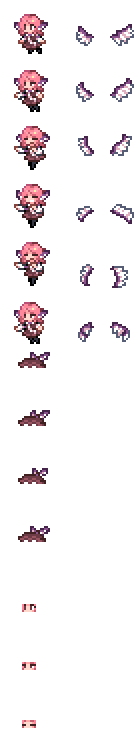
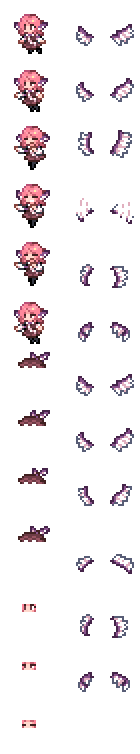
令隙间不受幸福度影响 修正了所有合成物的禁止微光分解的写法 加速了小碎骨和文文扇翅膀的速度

diff --git a/Content/Items/PetItems/AyaCamera.cs b/Content/Items/PetItems/AyaCamera.cs
@@ -18,10 +18,6 @@ namespace TouhouPets.Content.Items.PetItems
             Item.DefaultToVanitypet(ProjectileType<Aya>(), BuffType<AyaBuff>());
             Item.DefaultToVanitypetExtra(30, 24);
         }
-        public override void Update(ref float gravity, ref float maxFallSpeed)
-        {
-            Item.shimmerTime = 0;
-        }
         public override bool Shoot(Player player, EntitySource_ItemUse_WithAmmo source, Vector2 position, Vector2 velocity, int type, int damage, float knockback)
         {
             player.AddBuff(Item.buffType, 2);
@@ -34,6 +30,7 @@ namespace TouhouPets.Content.Items.PetItems
             .AddRecipeGroup(RecipeGroupID.IronBar, 5)
             .AddIngredient(ItemID.Wire, 7)
             .AddTile(TileID.Anvils)
+            .DisableDecraft()
             .Register();
         }
     }

diff --git a/Content/Items/PetItems/YoumuKatana.cs b/Content/Items/PetItems/YoumuKatana.cs
@@ -23,10 +23,6 @@ namespace TouhouPets.Content.Items.PetItems
             player.AddBuff(Item.buffType, 2);
             return false;
         }
-        public override void Update(ref float gravity, ref float maxFallSpeed)
-        {
-            Item.shimmerTime = 0;
-        }
         public override void AddRecipes()
         {
             CreateRecipe()
@@ -34,6 +30,7 @@ namespace TouhouPets.Content.Items.PetItems
             .AddRecipeGroup(RecipeGroupID.Wood, 5)
             .AddIngredient(ItemID.Ectoplasm, 3)
             .AddTile(TileID.Anvils)
+            .DisableDecraft()
             .Register();
         }
     }

diff --git a/Content/Items/PetItems/YuyukoFan.cs b/Content/Items/PetItems/YuyukoFan.cs
@@ -23,10 +23,6 @@ namespace TouhouPets.Content.Items.PetItems
             player.AddBuff(Item.buffType, 2);
             return false;
         }
-        public override void Update(ref float gravity, ref float maxFallSpeed)
-        {
-            Item.shimmerTime = 0;
-        }
         public override void AddRecipes()
         {
             CreateRecipe()
@@ -35,6 +31,7 @@ namespace TouhouPets.Content.Items.PetItems
             .AddIngredient(ItemID.Ectoplasm, 3)
             .AddIngredient(ItemID.ButterflyDust, 1)
             .AddTile(TileID.Loom)
+            .DisableDecraft()
             .Register();
         }
     }

diff --git a/Content/Items/PetItems/AliceDoll.cs b/Content/Items/PetItems/AliceDoll.cs
@@ -23,10 +23,6 @@ namespace TouhouPets.Content.Items.PetItems
             player.AddBuff(Item.buffType, 2);
             return false;
         }
-        public override void Update(ref float gravity, ref float maxFallSpeed)
-        {
-            Item.shimmerTime = 0;
-        }
         public override void AddRecipes()
         {
             CreateRecipe()
@@ -34,6 +30,7 @@ namespace TouhouPets.Content.Items.PetItems
             .AddIngredient(ItemID.Silk, 7)
             .AddIngredient(ItemID.Sapphire, 2)
             .AddTile(TileID.WorkBenches)
+            .DisableDecraft()
             .Register();
         }
     }

diff --git a/Content/Items/PetItems/MystiaFeather.cs b/Content/Items/PetItems/MystiaFeather.cs
@@ -23,16 +23,13 @@ namespace TouhouPets.Content.Items.PetItems
             player.AddBuff(Item.buffType, 2);
             return false;
         }
-        public override void Update(ref float gravity, ref float maxFallSpeed)
-        {
-            Item.shimmerTime = 0;
-        }
         public override void AddRecipes()
         {
             CreateRecipe()
             .AddIngredient(ItemID.ChickenNugget, 1)
             .AddIngredient(ItemID.Feather, 5)
             .AddTile(TileID.WorkBenches)
+            .DisableDecraft()
             .Register();
         }
     }

diff --git a/Content/Items/PetItems/RumiaRibbon.cs b/Content/Items/PetItems/RumiaRibbon.cs
@@ -23,16 +23,13 @@ namespace TouhouPets.Content.Items.PetItems
             player.AddBuff(Item.buffType, 2);
             return false;
         }
-        public override void Update(ref float gravity, ref float maxFallSpeed)
-        {
-            Item.shimmerTime = 0;
-        }
         public override void AddRecipes()
         {
             CreateRecipe()
             .AddIngredient(ItemID.Silk, 10)
             .AddIngredient(ItemID.SoulofNight, 2)
             .AddTile(TileID.WorkBenches)
+            .DisableDecraft()
             .Register();
         }
     }

diff --git a/Content/NPCs/YukariPortal.cs b/Content/NPCs/YukariPortal.cs
@@ -187,6 +187,10 @@ namespace TouhouPets.Content.NPCs
                 AddShopItem_Legacy();
             }
         }
+        public override void ModifyActiveShop(string shopName, Item[] items)
+        {
+            Main.LocalPlayer.currentShoppingSettings.PriceAdjustment = 1;
+        }
         public override void FindFrame(int frameHeight)
         {
             NPC.frame.Width = 32;

diff --git a/Content/Projectiles/Pets/Aya.cs b/Content/Projectiles/Pets/Aya.cs
@@ -183,7 +183,7 @@ namespace TouhouPets.Content.Projectiles.Pets
             {
                 wingFrame = 9;
             }
-            int count = 7;
+            int count = 5;
             if (++wingFrameCounter > count)
             {
                 wingFrameCounter = 0;

diff --git a/Content/Projectiles/Pets/Mystia.cs b/Content/Projectiles/Pets/Mystia.cs
@@ -101,7 +101,7 @@ namespace TouhouPets.Content.Projectiles.Pets
         }
         private void UpdateWingFrame()
         {
-            int count = 7;
+            int count = 5;
             if (++wingFrameCounter > count)
             {
                 wingFrameCounter = 0;
